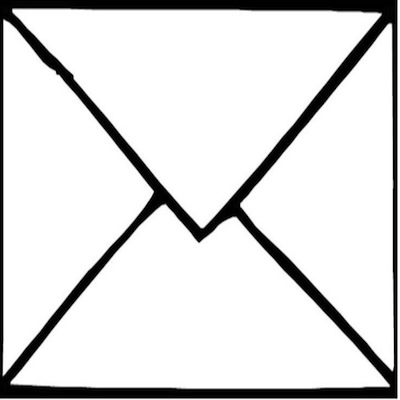
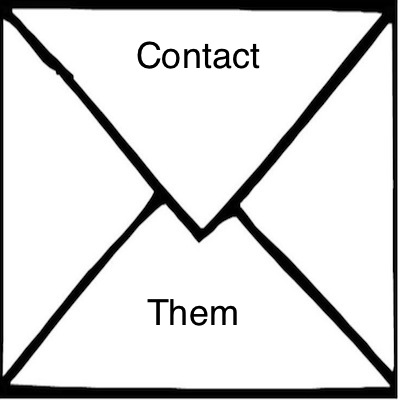
another business suggestions update.  This time, message functionality is implemented but message dialog is not

Changed region(s): [[0.33, 0.09, 0.66, 0.18], [0.36, 0.75, 0.6, 0.84]]

diff --git a/js/business-suggestions.js b/js/business-suggestions.js
@@ -5,24 +5,142 @@ $(document).ready(function() {
     squarifyMe('#businessIcon');
     squarifyMe('#frame');
     var businessList = [
-        new Business('Trader Joe\'s', {}, './img/businesses/traderjoes.png'),
-        new Business('Cambridge Bicycle', {}, './img/businesses/cambridgebicycle.png'),
-        new Business('Qdoba', {}, './img/businesses/qdoba.jpg'),
-        new Business('Shaw\'s', {}, './img/businesses/shaws.gif'),
-        new Business('Eastern Mountain Sports', {}, './img/businesses/easternmountainsports.gif'),
-        new Business('McDonald\'s', {}, './img/businesses/mcdonalds.png'),
-        new Business('City Sports', {}, './img/businesses/citysports.jpg')
+        new Business('Trader Joe\'s',
+                     {info:"Trader Joes info",
+                      donations: "Food Baskets"
+                     }, './img/businesses/traderjoes.png'),
+        new Business('Cambridge Bicycle',
+                     {info:"Cambridge bike info",
+                      donations: "Bicycles"
+                     }, './img/businesses/cambridgebicycle.png'),
+        new Business('Qdoba',
+                     {info:"Qdoba info",
+                      donations: "Food"
+                     }, './img/businesses/qdoba.jpg'),
+        new Business('Shaw\'s',
+                     {info:"Shaws info",
+                      donations: "Food, Cookware, Beverages, Gift Certificates"
+                     }, './img/businesses/shaws.gif'),
+        new Business('Eastern Mountain Sports',
+                     {info:"ems info",
+                      donations: "Gift Certificates"
+                     }, './img/businesses/easternmountainsports.gif'),
+        new Business('McDonald\'s',
+                     {info:"McDonald's info",
+                      donations: "Food, Gift Certificates"
+                     }, './img/businesses/mcdonalds.png'),
+        new Business('City Sports',
+                     {info:"City Sports info",
+                      donations: "Gift Certificates"
+                     }, './img/businesses/citysports.jpg')
     ];
 
-    for (var i = 0; i < 5; i ++){
-        var img = $("<img>");
-        img.attr("src", businessList[i].imageLink);
+    var index = 0;
+    var numSuggestions = 5;
+
+    $("#btnNext").click(function(){
+        index = nextFunc(businessList, index, numSuggestions);
+    });
+
+     $("#btnPrevious").click(function(){
+        index = prevFunc(businessList, index, numSuggestions);
+    });
+    $("#btnContact").click(function(){
+        if ($("#messageRow").length === 0){
+            $(".container").append('<div id="messageRow" class="row maximizedMessage"  >\
+                <div class="span3" id="messageHeader">\
+                    <div class="row">\
+                        <div class="span2">\
+                            MessageTitle\
+                        </div>\
+                        <div class="span1" id="icons">\
+                            <i class="icon-plus icon-white" id="btnMaximize"></i>\
+                            <i class="icon-minus icon-white" id="btnMinimize"></i>\
+                            <i class="icon-remove icon-white" id="btnRemove"></i>\
+                        </div>\
+                    </div>\
+                </div>\
+                <div id="messageBody">\
+                    lsdkjflsdkjf\
+                </div>\
+            </div>\
+            ');
+            $("#btnMaximize").click(function(){
+                if ($(this).is(":visible")){
+                    $("#messageRow").removeClass("minimizedMessage").addClass("maximizedMessage");
+                    $(this).hide();
+                    $("#btnMinimize").show();
+                    $("#messageBody").show();
+                }
+            }).hide();
+            $("#btnMinimize").click(function(){
+                $("#messageRow").removeClass("maximizedMessage").addClass("minimizedMessage");
+                $(this).hide();
+                $("#btnMaximize").show();
+                $("#messageBody").hide();
+            });
+            $("#btnRemove").click(function(){
+                console.log("remove clicked");
+                $("#messageRow").remove();
+            });
+        } else{
+            $("#btnMaximize").click();
+        }
+            
+    });
+
+   
+
+    setSuggestions(businessList, index, numSuggestions);
+    $("[index='2']").click();
+});
+
+var nextFunc = function(businessList, index, numSuggestions){
+    setSuggestions(businessList, index + 1, numSuggestions);
+    return index + 1;
+};
+
+var prevFunc = function(businessList, index, numSuggestions){
+    setSuggestions(businessList, index - 1, numSuggestions);
+    return index - 1;
+};
+
+Number.prototype.mod = function(n) {
+    return ((this%n)+n)%n;
+};
+
+var setSuggestions = function(businessList, index, numSuggestions){
+    if (!numSuggestions){
+        numSuggestions = 5;
+    }
+    var i = 0;
+    while (i < numSuggestions){
+        var j = (i + index).mod(businessList.length);
+        var img = $('<input type="image" class="imageThumbnail thumbnail">');
+        img.attr("src", businessList[j].imageLink);
+        img.attr("index", j);
         img.width("100%");
         img.height("100%");
-        $("#suggestion" + i).append(img);
+        $("#suggestion" + i).html(img);
+        i ++;
     }
-   
-});
+
+    $(".imageThumbnail").click(function(){
+        var business = businessList[$(this).attr("index")];
+        var img = $("<img>");
+        img.attr("src", $(this).attr("src"));
+        img.width("100%");
+        img.height("100%");
+
+        $("#businessIcon").html(img);
+        $("#businessName").html(business.name);
+        var keys = Object.keys(business.info);
+        for (var i = 0; i < keys.length; i ++){
+            $("#business" + keys[i]).html(business.info[keys[i]]);
+        }
+    });
+};
+
 
 /**
  * Class Business represents different business selections

diff --git a/business-suggestions.html b/business-suggestions.html
@@ -36,10 +36,16 @@
                     <div class="span4" id="businessName">BusinessTitle</div>
                 </div>
                 <div class="row" id="infoContainer">
+                    <div class="span2">Info:</div>
+                    <div class="span1"></div>
+                    <div class="span3" id="businessinfo">Donation info</div>
+                </div>
+                <div class="row" id="donationContainer">
                     <div class="span2">Donations:</div>
                     <div class="span1"></div>
-                    <div class="span3" id="info">Donation info</div>
+                    <div class="span3" id="businessdonations">Donation info</div>
                 </div>
+
                 <div id="row">
                     <div class="span2" id="contactButtonDiv">
                         <input type="image" src="./img/contact.jpeg" id="btnContact">
@@ -52,7 +58,7 @@
 
         <div class="row suggestionRow">
             <div class="span1 arrowContainer">
-                <img class="button"  src="./img/prev.jpg">
+                <input height: '100%' width: '100%' type="image" src="./img/prev.jpg" class="arrow" id="btnPrevious">
             </div>
             <div class="span2 suggestionContainer">
                 <div id="suggestion0" class="suggestion"></div>
@@ -69,9 +75,8 @@
             <div class="span2 suggestionContainer">
                 <div id="suggestion4" class="suggestion"></div>
             </div>
-
            <div class="span1 arrowContainer">
-                <img class="button" src="./img/next.jpg">
+                <input type="image" src="./img/next.jpg" class="arrow" id="btnNext">
             </div>
         </div>
 

diff --git a/css/business-suggestions.css b/css/business-suggestions.css
@@ -1,5 +1,6 @@
 #frame{
     border-style: solid;
+    border-radius: 5px;
     margin-top: 10px;
 }
 
@@ -7,11 +8,13 @@
     margin-top: 2%;
 }
 .suggestion{
-    border-style: solid;
 }
 
 #frame{
     position: relative;
+    padding-left: 5px;
+    padding-top: 5px;
+    padding-right: 5px;
 }
 .suggestionRow{
     margin-top: 20px;
@@ -24,13 +27,9 @@
 
 #contactButtonDiv{
     position: absolute;
-    float: left;
-    bottom: 20px;
+    bottom: 10px;
 }
 
-#businessHeader{
-    margin-top: 10px;
-}
 .outline{
     border-style: solid;
     width: 100%;
@@ -50,8 +49,56 @@
     text-align: center;
 }
 
-.button:hover{
-    border-style: solid;
+.arrow{
+    width: 100%;
+    height: 100%;
 }
-.arrowContainer:hover{
+
+#messageRow{
+    border-style: solid;
+    position: fixed;
+    right: 15px;
+    bottom: 0;
+}
+
+#messageHeader{
+    width: 100%;
+    height: 10%;
+    margin-left: 0px;
+    top: 0px;
+    background-color: black;
+    color: white;
+}
+
+.minimizedMessage{
+    height: 40px;
+    width: 200px;
+    color: white;
+    background-color: black;
+}
+
+#messageBody{
+    background-color: white;
+    height: 100%;
+}
+
+#icons{
+    position: fixed;
+    right: 10px;
+}
+
+.maximizedMessage{
+    height:75%;
+    width: 50%;
+}
+
+.icon-minus:hover{
+    background-color: grey;
+}
+
+.icon-plus:hover{
+    background-color: grey;
+}
+.icon-remove:hover{
+    background-color: grey;
 }
